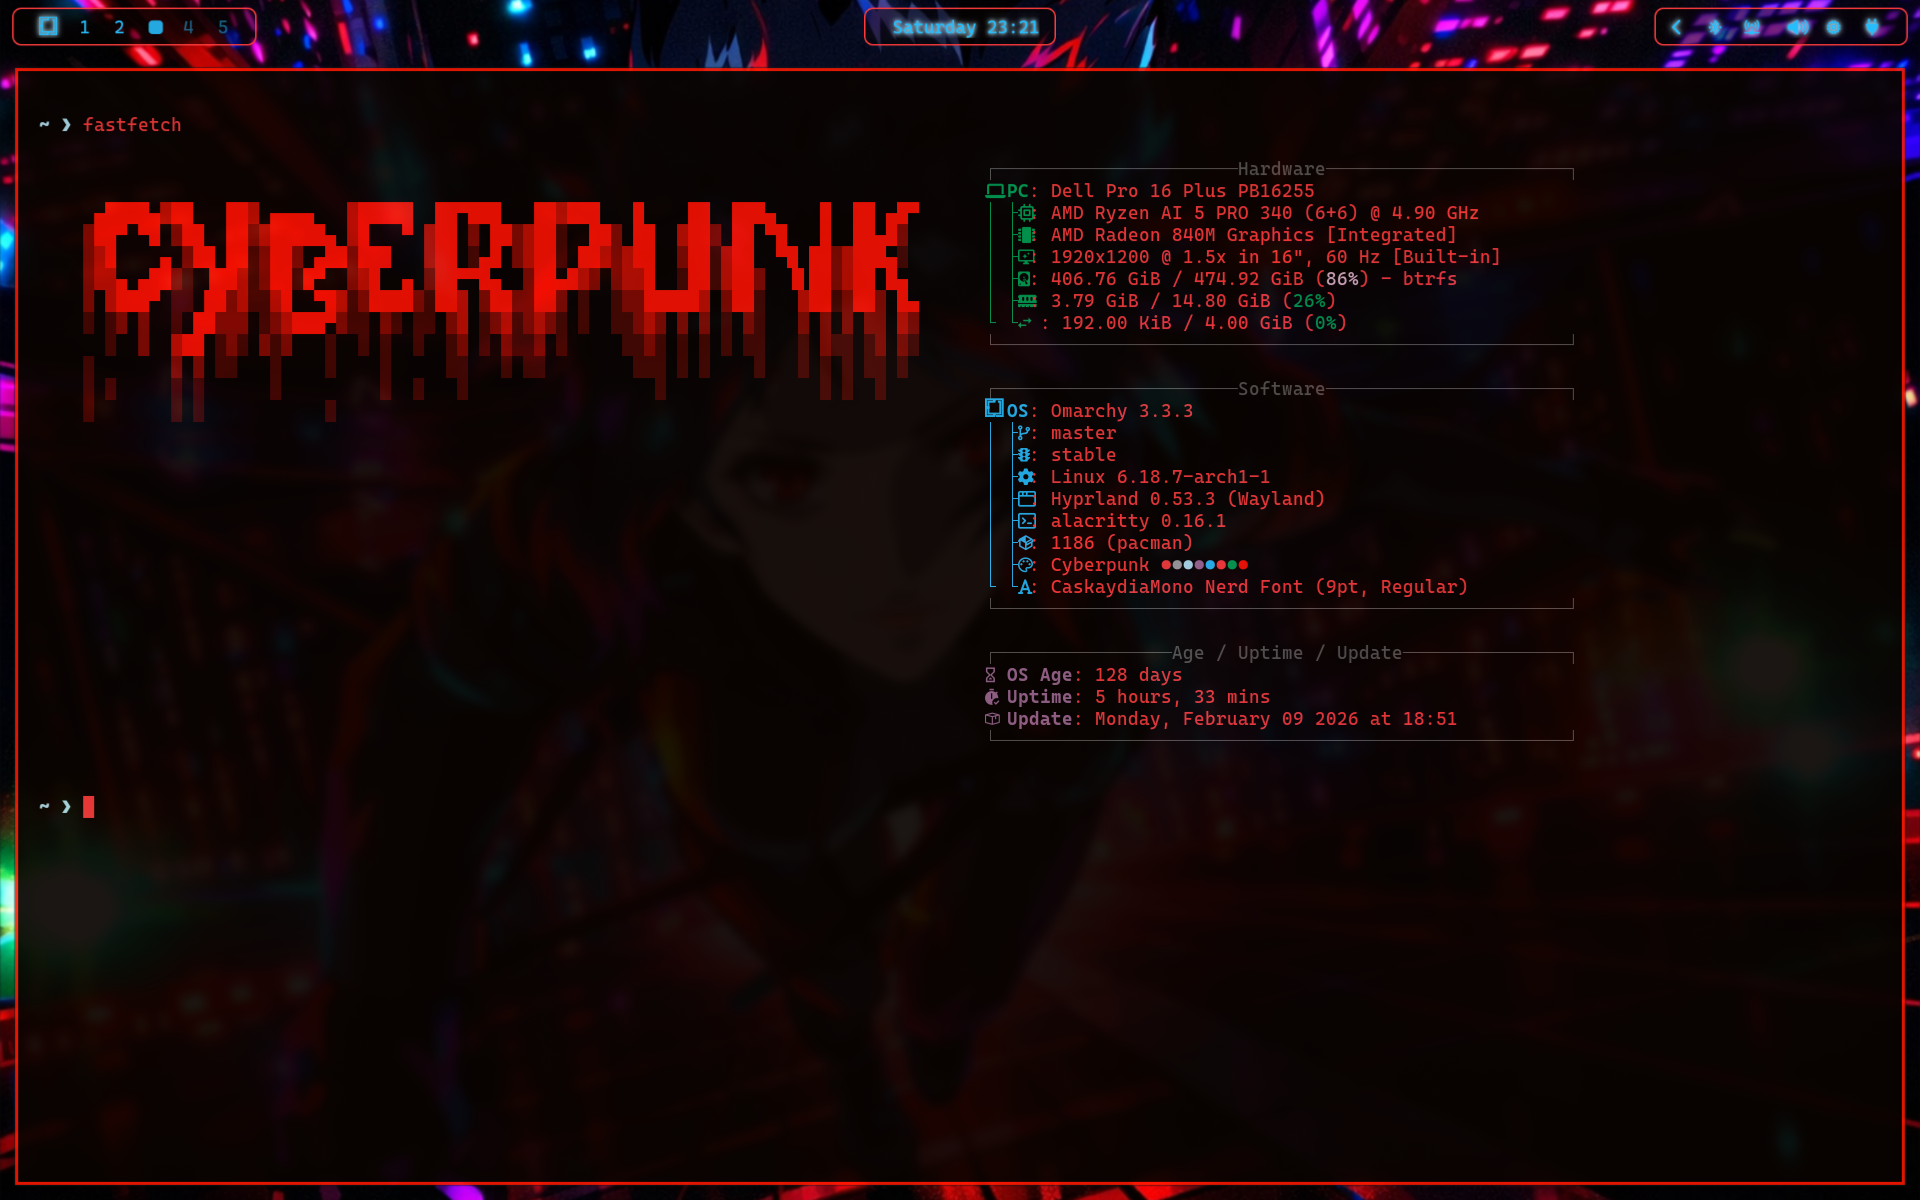
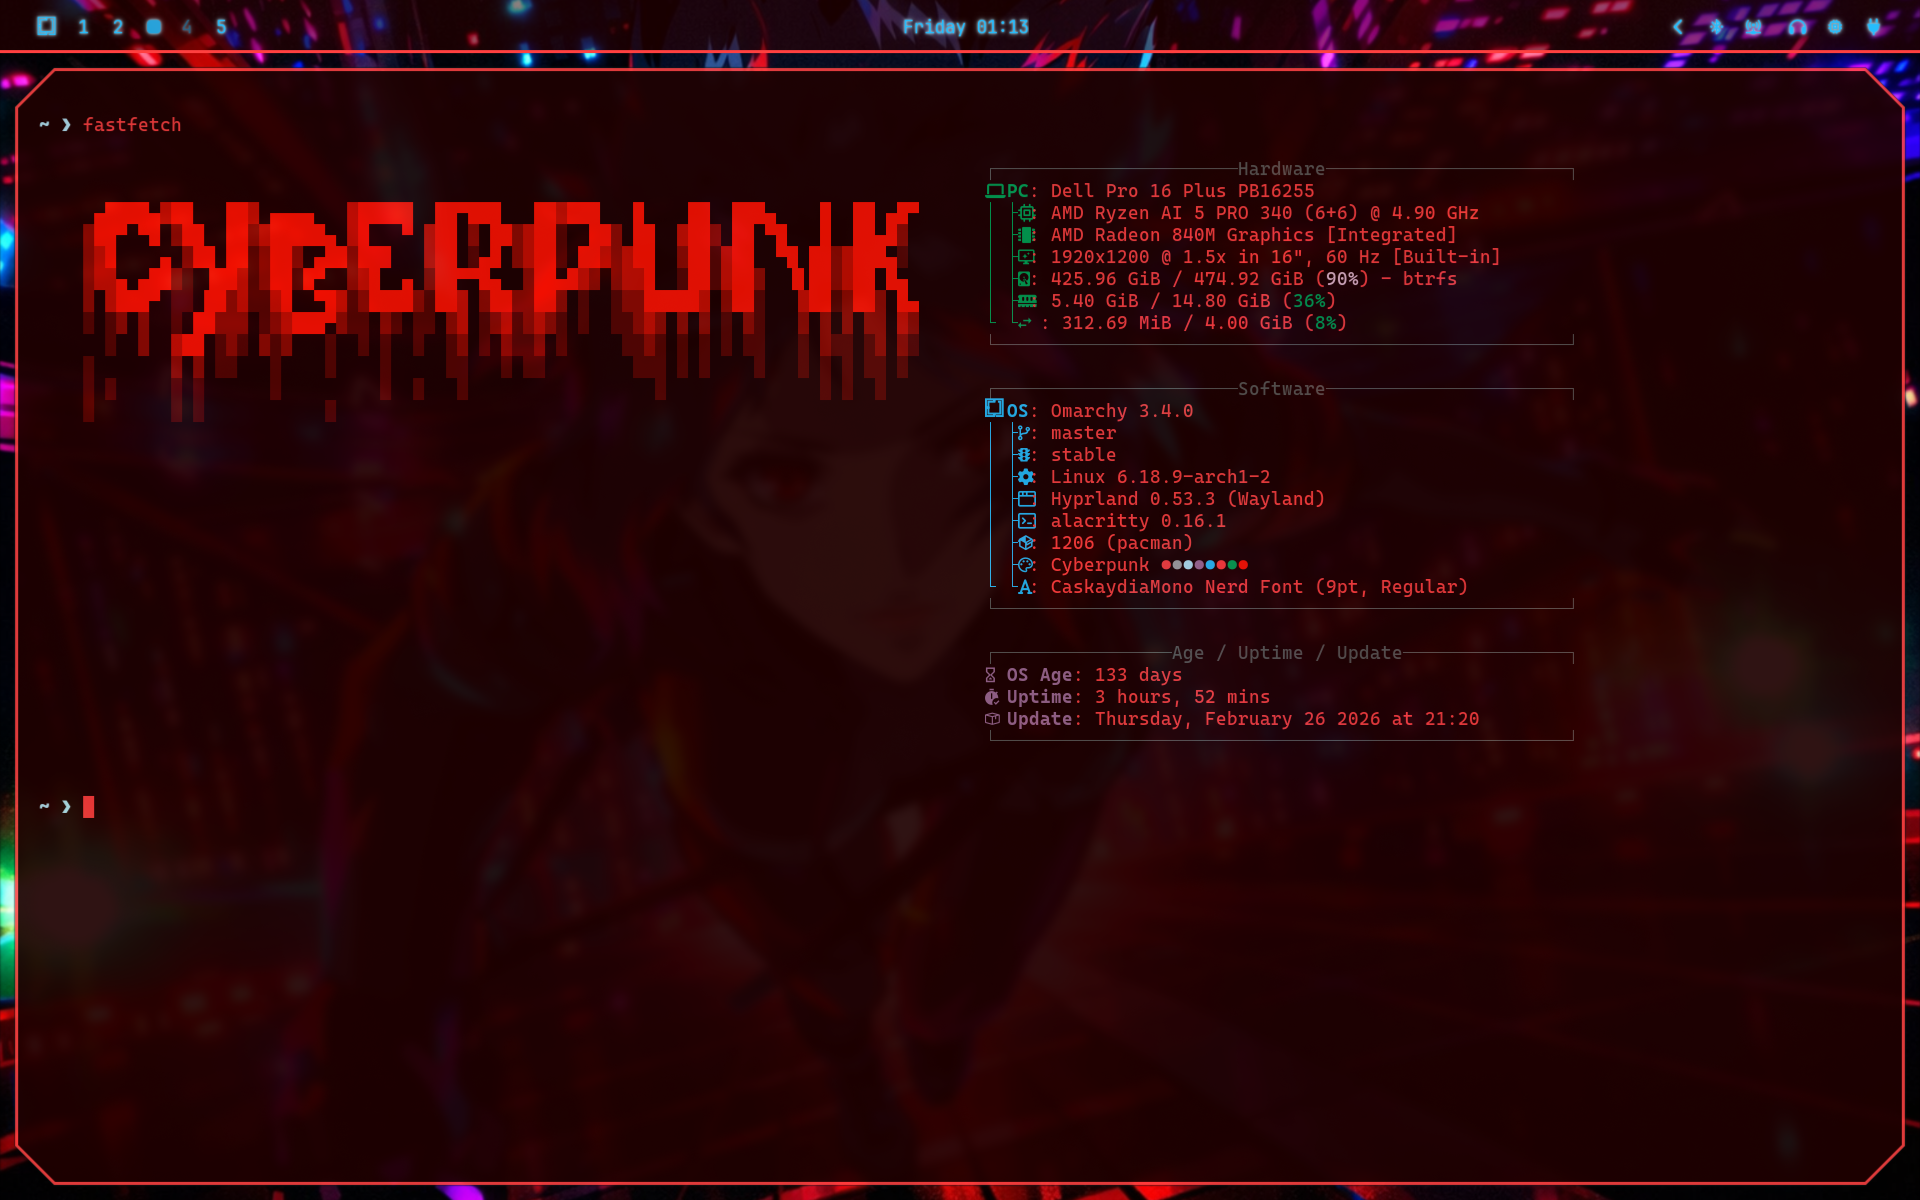
updated preview and increased waybar bg colors redness

diff --git a/waybar.css b/waybar.css
@@ -2,10 +2,10 @@
 @define-color background #9a0000;
 @define-color glow #b5e4f4;
 @define-color bordercolor #ff4040;
-/* hex for new dark red background is #400000 for tooltip and #2b0000 for waybar */
+/* hex for new dark red background is #400000 for tooltip and #320000 for waybar */
 
 window#waybar {
-  background-color: rgba(43, 0, 0, 0.5);
+  background-color: rgba(50, 0, 0, 0.5);
   border-bottom: 2px solid @bordercolor;
 }
 
